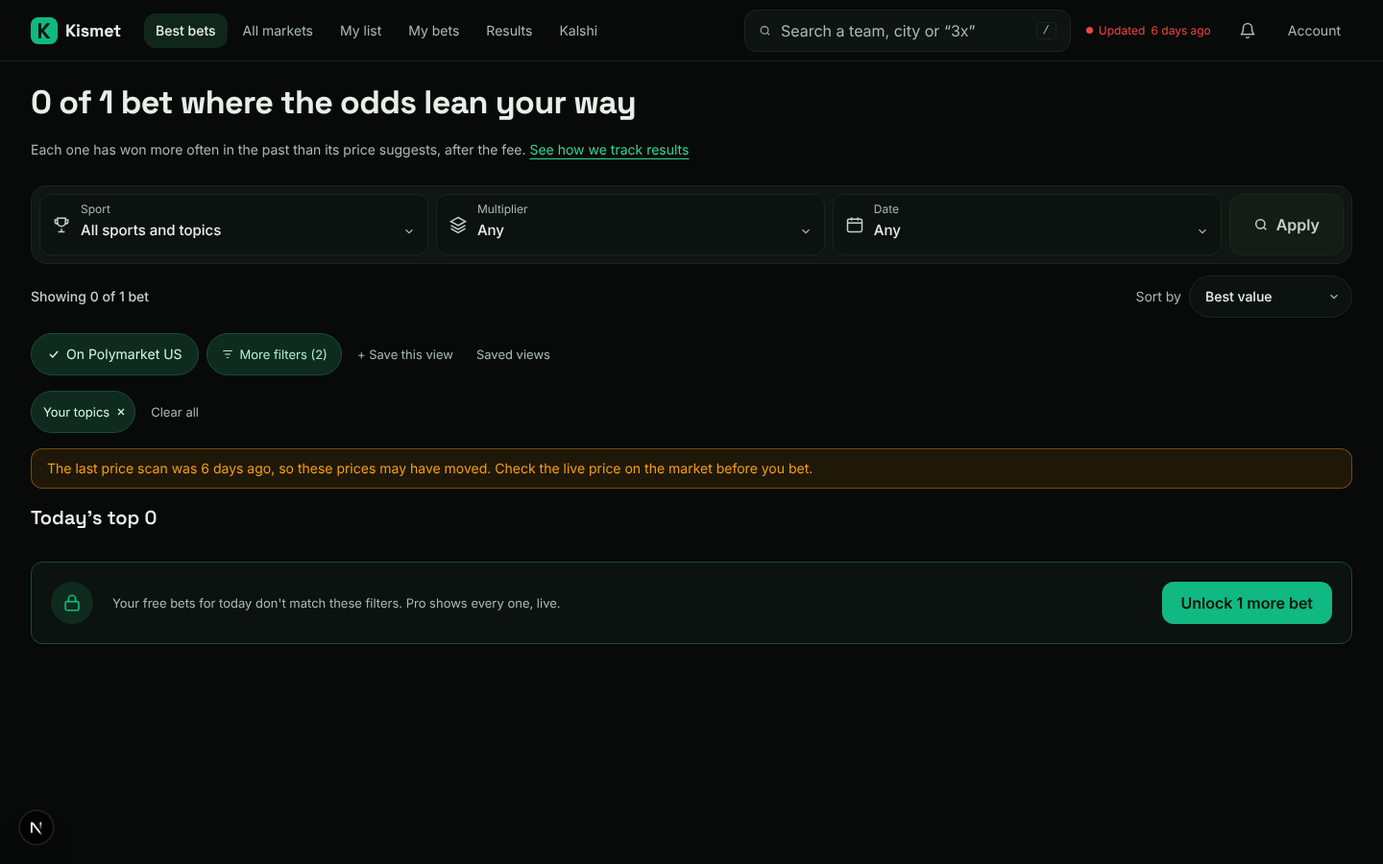
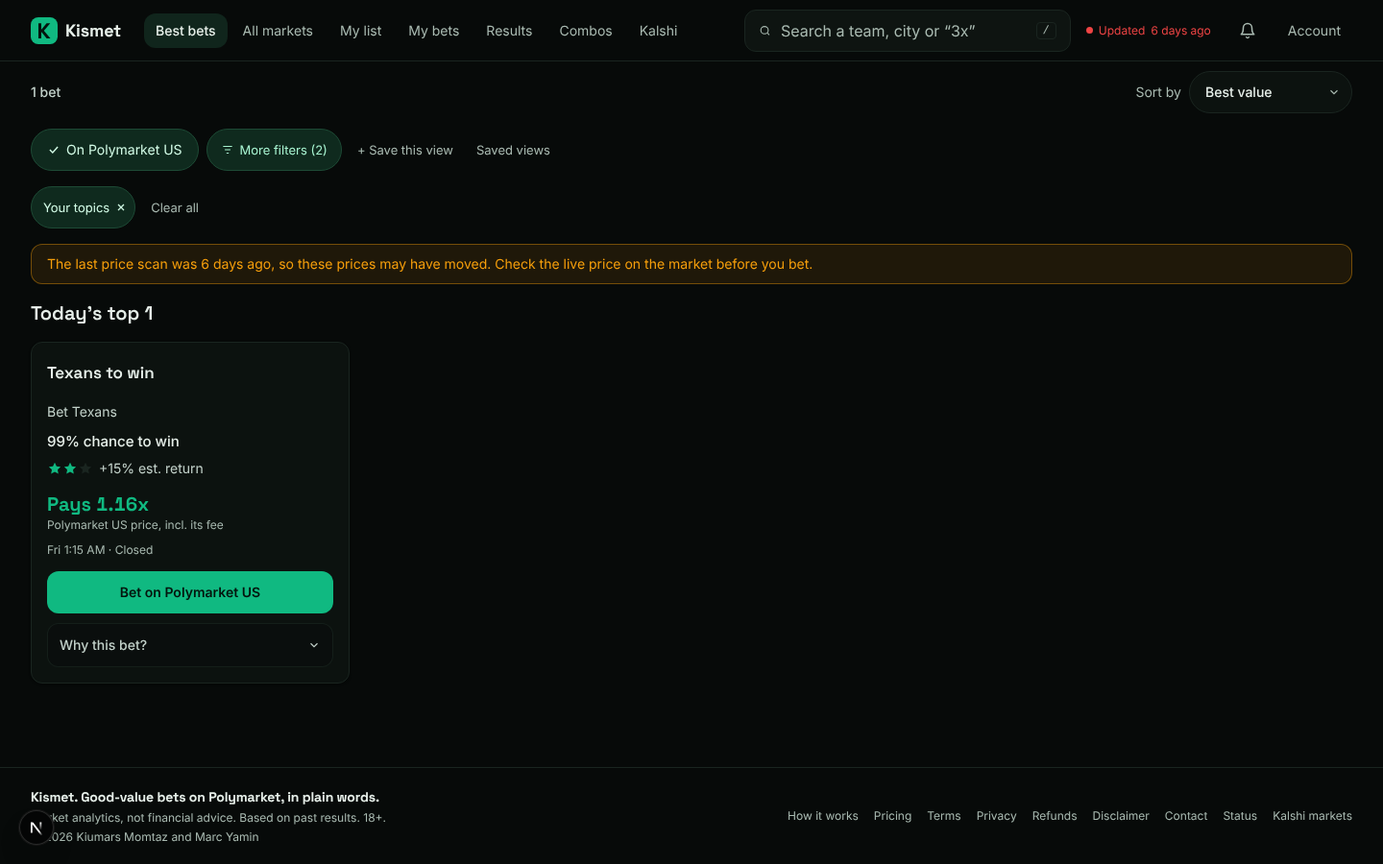
F5: real 307 from middleware, landing CLS under 0.1, portable e2e paths
- Middleware sends a bare /bets (or signed-in /) to /bets?fav=1&t=<ids> with a 307, decided from a server-set me_topics
  cookie (no database call). The page-level redirect() (200 + meta refresh) is gone.
- The cookie is written when the profile is saved and on the first /api/me of a device.
- firstPage resolves fav=1 without t= from the cookie; onboarding lands on ?view=flags&fav=1&t=<ids> with a full page load.
- Tour moves with transform, not top/left (its animation counted as layout shift).
- e2e: single-document check (307, then 200 with pill and cards), CLS of the exact post-onboarding landing at 390 and
  1440 px (0.051 and 0.017), repo-relative screenshot path, Premium comp so the filtered list is deterministic.

Claude-Session: https://claude.ai/code/session_01Xq7uwd4fAao58TRNq55oo4

diff --git a/apps/web/e2e-paid/launch-f05-topics.spec.ts b/apps/web/e2e-paid/launch-f05-topics.spec.ts
@@ -1,5 +1,6 @@
 // F5: pick topics at signup. New account picks NFL + Politics -> / and /bets open filtered with a visible "Your topics"
 // pill that clears in one tap (and stays cleared). Skipping setup leaves the views unfiltered. Filters only, never picks.
+import path from "node:path";
 import { expect, test, type Page } from "@playwright/test";
 
 async function signUp(page: Page, email: string) {
@@ -17,47 +18,83 @@ async function signUp(page: Page, email: string) {
   await page.waitForURL(/\/onboarding/, { timeout: 60_000 });
 }
 
+/** Free's Best bets are a random daily sample, so a topic filter can leave it empty. These tests are about the filter and
+ *  the layout, so the new account gets a Premium comp through the mock database (service role): every matching bet lists. */
+async function makePremium(page: Page) {
+  const me = await (await page.request.get("/api/me")).json();
+  const res = await page.request.patch(`/e2e-mock/supabase/rest/v1/subscriptions?user_id=eq.${me.user.id}`, {
+    headers: { authorization: "Bearer e2e-service", apikey: "e2e-service", "content-type": "application/json" }, data: { comp_tier: "premium" },
+  });
+  expect(res.status()).toBeLessThan(300);
+  expect((await (await page.request.get("/api/me")).json()).tier).toBe("premium");
+}
+
 const pill = (page: Page) => page.getByRole("button", { name: "Remove filter: Your topics" });
 
-const SHOTS = "/home/user/MarketEdge/.claude/worktrees/agent-afda8a27944e228d2/docs/launch/review/f05";
+const SHOTS = path.resolve(process.cwd(), "../../docs/launch/review/f05");   // repo-relative: <repo>/docs/launch/review/f05
 const SIZES = [{ w: 390, h: 844 }, { w: 1440, h: 900 }];
 
-/** Layout shift of the next full load of `path`, from buffered layout-shift entries (input-driven shifts excluded). */
-async function cls(page: Page, path: string) {
+/** Sum of layout-shift entries (input-driven shifts excluded) since the last resetCls(); survives client navigation. */
+async function observeCls(page: Page) {
   await page.addInitScript(() => {
     (window as unknown as { __cls: number }).__cls = 0;
     new PerformanceObserver((l) => { for (const e of l.getEntries() as unknown as { value: number; hadRecentInput: boolean }[]) if (!e.hadRecentInput) (window as unknown as { __cls: number }).__cls += e.value; })
       .observe({ type: "layout-shift", buffered: true });
   });
-  await page.goto(path);
-  await expect(pill(page)).toBeVisible({ timeout: 30_000 });
-  await page.waitForLoadState("networkidle");
-  await page.waitForTimeout(1_500);
-  return page.evaluate(() => (window as unknown as { __cls: number }).__cls);
 }
+const resetCls = (page: Page) => page.evaluate(() => { (window as unknown as { __cls: number }).__cls = 0; });
+const readCls = async (page: Page) => { await page.waitForLoadState("networkidle"); await page.waitForTimeout(1_500); return page.evaluate(() => (window as unknown as { __cls: number }).__cls); };
+
+// next dev compiles a route on its first hit (seconds of unstyled, shifting layout). This throwaway user hits the routes
+// the measured tests land on, so those measure the page, not the compiler.
+test("warm-up: first hits compile the routes", async ({ page }) => {
+  test.setTimeout(300_000);
+  await signUp(page, `f05-warm-${Date.now()}@example.com`);
+  await page.getByRole("button", { name: "Skip setup" }).click();
+  await page.waitForURL((u) => u.pathname === "/" || u.pathname === "/bets", { timeout: 120_000 });
+  for (const u of ["/bets", "/bets?fav=1&t=sports.nfl", "/settings", "/account"]) { await page.goto(u); await page.waitForLoadState("networkidle"); }
+});
 
 for (const { w, h } of SIZES) {
   test(`picks NFL + Politics at ${w}px: / and /bets open filtered with a Your topics pill; one tap clears it`, async ({ page }) => {
     test.setTimeout(300_000);
     await page.setViewportSize({ width: w, height: h });
+    await observeCls(page);
     await signUp(page, `f05-pick-${w}-${Date.now()}@example.com`);
+    await makePremium(page);
     const nfl = page.getByRole("button", { name: /^NFL/ });
     const politics = page.getByRole("button", { name: /^Elections/ });   // Politics & Elections > Elections: the fixture's one open Politics market
+    await expect(nfl).toContainText("open", { timeout: 60_000 });   // the tile counts arrive after first paint and move the grid
+    await page.waitForTimeout(500);
     await nfl.click();   // each tap waits for the account store, then saves; the tile shows chosen once it has
     await expect(nfl).toHaveAttribute("aria-pressed", "true", { timeout: 30_000 });
     await politics.click();
     await expect(politics).toHaveAttribute("aria-pressed", "true", { timeout: 30_000 });
     await page.screenshot({ path: `${SHOTS}/${w}-1-pick-topics.png` });
+    await resetCls(page);   // measure the exact landing after onboarding
     await page.getByRole("button", { name: "Skip setup" }).click();   // finishing from any step saves; lands on Best bets
     await expect(page).toHaveURL(/fav=1/, { timeout: 60_000 });
     await expect(pill(page)).toBeVisible({ timeout: 30_000 });
+    expect(await page.locator("article[data-row]").count()).toBeGreaterThan(0);
+    const landing = await readCls(page);
+    console.log(`CLS post-onboarding landing at ${w}px: ${landing.toFixed(4)}  (${page.url()})`);
+    expect(landing).toBeLessThan(0.1);
     expect(await page.evaluate(() => document.documentElement.scrollWidth)).toBeLessThanOrEqual(w);   // no horizontal scroll
 
-    // a later visit to / and /bets: the server redirects before rendering, so the pill is in the first HTML
-    for (const path of ["/", "/bets"]) {
-      const res = await page.request.get(path, { maxRedirects: 0 });
-      expect([200, 307, 308]).toContain(res.status());
-      await page.goto(path);
+    // a later visit to / and /bets: a real 307 (no page body), then ONE document that already holds the pill and the cards
+    for (const route of ["/", "/bets"]) {
+      const hop = await page.request.get(route, { maxRedirects: 0 });
+      expect(hop.status(), route).toBe(307);
+      expect(hop.headers().location, route).toMatch(/\/bets\?fav=1&t=/);
+      expect((await hop.text()).length, "the 307 carries no page").toBeLessThan(2_000);
+      const doc = await page.request.get(route);   // follows the redirect
+      expect(doc.status()).toBe(200);
+      expect(doc.url()).toMatch(/fav=1&t=/);
+      const html = await doc.text();
+      expect(html).not.toContain("NEXT_REDIRECT");
+      expect(html).toContain("Remove filter: Your topics");
+      expect(html).toMatch(/<article[^>]*data-row/);
+      await page.goto(route);
       await expect(page).toHaveURL(/fav=1/);
       await expect(pill(page)).toBeVisible({ timeout: 30_000 });
     }
@@ -66,7 +103,10 @@ for (const { w, h } of SIZES) {
     await page.screenshot({ path: `${SHOTS}/${w}-2-bets-filtered.png` });
 
     // CLS of a fresh /bets load with topics saved (spec: < 0.1)
-    const shift = await cls(page, "/bets");
+    await resetCls(page);
+    await page.goto("/bets");
+    await expect(pill(page)).toBeVisible({ timeout: 30_000 });
+    const shift = await readCls(page);
     console.log(`CLS /bets with topics saved at ${w}px: ${shift.toFixed(4)}`);
     expect(shift).toBeLessThan(0.1);
     await page.waitForLoadState("networkidle");

diff --git a/apps/web/lib/filters/default-topics.ts b/apps/web/lib/filters/default-topics.ts
@@ -1,14 +1,30 @@
 // F5: Home / Best bets open filtered to the topics the user chose, unless the URL already carries filters or the
 // user cleared the "Your topics" pill. A filter only, never a pick: the same flags come back for anyone with it.
-export const TOPICS_OFF_KEY = "me:v1:topics_off";
-const DRAWER = new Set(["m", "side"]);
+//
+// Middleware can't query the database per request, so the choice rides in a small cookie the server writes whenever
+// it learns the profile (profile save, /api/me): "on:<ids>" or "off:<ids>" (pill cleared). Middleware turns a bare
+// /bets (or signed-in /) into a real 307 to /bets?fav=1&t=<ids>; the page then renders the filtered cards and the pill
+// in its first HTML.
+export const TOPICS_COOKIE = "me_topics";
+export const TOPICS_COOKIE_MAX_AGE = 60 * 60 * 24 * 365;
+const DRAWER = new Set(["m", "side", "_rsc"]);   // params that don't filter (the drawer; Next's soft-navigation marker)
+const ID = /^[a-z0-9][a-z0-9._-]{0,59}$/;
 
-/** The query to replace the URL with, or null to leave it. `search` is location.search (with or without "?"). */
+export const topicsCookieValue = (favorites: string[], off: boolean) => `${off ? "off" : "on"}:${favorites.join(",")}`;
+
+export function parseTopicsCookie(v: string | undefined | null): { favorites: string[]; dismissed: boolean } {
+  const m = /^(on|off):(.*)$/.exec(v ?? "");
+  if (!m) return { favorites: [], dismissed: false };
+  return { favorites: m[2]!.split(",").filter((id) => ID.test(id)).slice(0, 100), dismissed: m[1] === "off" };
+}
+
+/** The query to send the visitor to, or null to leave the URL alone. `search` is the request's query string. */
 export function defaultTopicsHref(search: string, favorites: string[], dismissed: boolean): string | null {
   if (dismissed || !favorites.length) return null;
   const p = new URLSearchParams(search);
   for (const k of p.keys()) if (!DRAWER.has(k)) return null;
-  // fav=1 is the "Your topics" pill; t=<ids> carries the same topics so the server renders the filtered list (no refetch after the profile loads)
+  p.delete("_rsc");
+  // fav=1 is the "Your topics" pill; t=<ids> carries the same topics so the server renders the filtered list
   const out = new URLSearchParams({ fav: "1", t: favorites.join(",") });
   p.forEach((v, k) => out.set(k, v));
   return `?${out.toString()}`;

diff --git a/apps/web/lib/filters/default-topics.test.ts b/apps/web/lib/filters/default-topics.test.ts
@@ -1,9 +1,10 @@
 import { describe, expect, it } from "vitest";
-import { defaultTopicsHref } from "./default-topics";
+import { defaultTopicsHref, parseTopicsCookie, topicsCookieValue } from "./default-topics";
 
 describe("defaultTopicsHref", () => {
   it("opens with the user's topics when the URL has no filters", () => {
     expect(defaultTopicsHref("", ["sports.nfl"], false)).toBe("?fav=1&t=sports.nfl");
+    expect(defaultTopicsHref("", ["sports.nfl", "politics.elections"], false)).toBe("?fav=1&t=sports.nfl%2Cpolitics.elections");
   });
   it("does nothing without topics (skipped setup)", () => {
     expect(defaultTopicsHref("", [], false)).toBeNull();
@@ -11,9 +12,22 @@ describe("defaultTopicsHref", () => {
   it("does nothing after the user cleared the pill", () => {
     expect(defaultTopicsHref("", ["sports.nfl"], true)).toBeNull();
   });
-  it("leaves an explicit filter or a drawer-only URL alone", () => {
+  it("leaves an explicit filter alone; a drawer-only or soft-navigation URL still opens filtered", () => {
     expect(defaultTopicsHref("?topics=weather", ["sports.nfl"], false)).toBeNull();
-    expect(defaultTopicsHref("?view=flags&topics=weather", ["sports.nfl"], false)).toBeNull();
+    expect(defaultTopicsHref("?view=flags&t=weather", ["sports.nfl"], false)).toBeNull();
     expect(defaultTopicsHref("?m=abc&side=0", ["sports.nfl"], false)).toBe("?fav=1&t=sports.nfl&m=abc&side=0");
+    expect(defaultTopicsHref("?_rsc=1x2y3", ["sports.nfl"], false)).toBe("?fav=1&t=sports.nfl");
+  });
+});
+
+describe("topics cookie", () => {
+  it("round-trips topics and the cleared flag", () => {
+    expect(parseTopicsCookie(topicsCookieValue(["sports.nfl", "weather"], false))).toEqual({ favorites: ["sports.nfl", "weather"], dismissed: false });
+    expect(parseTopicsCookie(topicsCookieValue(["sports.nfl"], true))).toEqual({ favorites: ["sports.nfl"], dismissed: true });
+    expect(parseTopicsCookie(topicsCookieValue([], false))).toEqual({ favorites: [], dismissed: false });
+  });
+  it("ignores a missing, malformed or tampered value", () => {
+    for (const v of [undefined, null, "", "garbage", "on"]) expect(parseTopicsCookie(v)).toEqual({ favorites: [], dismissed: false });
+    expect(parseTopicsCookie("on:sports.nfl,<script>,../x,weather").favorites).toEqual(["sports.nfl", "weather"]);
   });
 });

diff --git a/apps/web/components/onboarding/Tour.tsx b/apps/web/components/onboarding/Tour.tsx
@@ -113,12 +113,13 @@ export function Tour() {
       {/* the click shield; the spotlight's own shadow dims everything else */}
       <div className="absolute inset-0" onClick={end} aria-hidden="true" style={rect ? undefined : { background: "rgb(0 0 0 / 0.6)" }} />
       {rect && (
-        <div aria-hidden="true" className="pointer-events-none absolute rounded-card ring-2 ring-accent transition-all duration-300 ease-out motion-reduce:transition-none"
-          style={{ top: rect.top - pad, left: rect.left - pad, width: rect.width + pad * 2, height: rect.height + pad * 2, boxShadow: "0 0 0 9999px rgb(0 0 0 / 0.6)" }} />
+        <div aria-hidden="true" className="pointer-events-none absolute rounded-card ring-2 ring-accent transition-transform duration-300 ease-out motion-reduce:transition-none"
+          // moves with transform, not top/left: animating top/left counts as layout shift (CLS) on every frame
+          style={{ top: 0, left: 0, transform: `translate(${rect.left - pad}px, ${rect.top - pad}px)`, width: rect.width + pad * 2, height: rect.height + pad * 2, boxShadow: "0 0 0 9999px rgb(0 0 0 / 0.6)" }} />
       )}
       <div ref={card} role="dialog" aria-modal="true" aria-labelledby="tour-h" aria-describedby="tour-b"
-        className="absolute w-[min(360px,calc(100vw-32px))] rounded-card border border-border bg-surface p-5 shadow-[0_12px_32px_rgb(0_0_0/0.45)] transition-[top,left] duration-300 ease-out motion-reduce:transition-none"
-        style={pos ? { top: pos.top, left: pos.left } : { visibility: "hidden" }}>
+        className="absolute w-[min(360px,calc(100vw-32px))] rounded-card border border-border bg-surface p-5 shadow-[0_12px_32px_rgb(0_0_0/0.45)] transition-transform duration-300 ease-out motion-reduce:transition-none"
+        style={pos ? { top: 0, left: 0, transform: `translate(${pos.left}px, ${pos.top}px)` } : { visibility: "hidden" }}>
         <p className="text-xs tabular-nums text-muted">{step + 1} of {STEPS.length}</p>
         <h2 id="tour-h" className="mt-1 font-heading text-lg font-semibold">{s.title}</h2>
         <p id="tour-b" className="mt-1.5 text-sm leading-relaxed text-soft">{s.body}</p>

diff --git a/apps/web/lib/repo/server.ts b/apps/web/lib/repo/server.ts
@@ -1,7 +1,9 @@
 // /api/data/* handlers: the signed-in user's rows via Supabase with RLS (SupabaseRepo's backend).
 // Quotas per tier are enforced here, not only in the UI (docs/08 LIMITS).
 import type { SupabaseClient } from "@supabase/supabase-js";
-import { authEnabled, getTier, sameOrigin, supabaseServer } from "@/lib/auth/server";
+import { cookies } from "next/headers";
+import { COOKIE_OPTIONS, authEnabled, getTier, sameOrigin, supabaseServer } from "@/lib/auth/server";
+import { TOPICS_COOKIE, TOPICS_COOKIE_MAX_AGE, topicsCookieValue } from "@/lib/filters/default-topics";
 import { readJson } from "@/lib/body";
 import { isAppToken } from "@/lib/auth/app-token";
 import { can, quota, type QuotaKey } from "@/lib/entitlements";
@@ -102,7 +104,18 @@ export async function patchProfile({ db, userId }: Ctx, body: unknown): Promise<
   if (!parsed.success) return err(400, "Invalid settings");
   const { data, error } = await db.from("profiles").update(parsed.data).eq("user_id", userId).select("*").maybeSingle();
   if (error) return err(400, "Couldn't save");
+  await syncTopicsCookie(data);
   return Response.json(profileOut(data));
+}
+
+/** F5: remember the saved topics (and whether the "Your topics" pill was cleared) in a server-set cookie, so middleware
+ *  can send a bare /bets to the filtered view without a database call (lib/filters/default-topics.ts). */
+export async function syncTopicsCookie(row: Record<string, unknown> | null): Promise<void> {
+  if (!row) return;
+  try {
+    const fav = Array.isArray(row.favorite_topics) ? (row.favorite_topics as unknown[]).filter((x): x is string => typeof x === "string") : [];
+    (await cookies()).set(TOPICS_COOKIE, topicsCookieValue(fav, row.topics_off === true), { ...COOKIE_OPTIONS, maxAge: TOPICS_COOKIE_MAX_AGE });
+  } catch { /* not in a request context (tests): nothing to set */ }
 }
 
 /** First sign-in import of localStorage data (docs/08). Rows that clash or break a quota are skipped. */

diff --git a/apps/web/lib/data/respond.ts b/apps/web/lib/data/respond.ts
@@ -16,7 +16,8 @@ import { BEST_BETS_VERDICTS, CLOSING_SOON, tierOf, type FilterState } from "@/li
 import { DELAYED_PENDING, delayedPendingLine, type EventResponse, type MarketResponse, type MarketsResponse } from "@/lib/api";
 import type { LedgerStats, StoreMarket } from "@/lib/types";
 import { proofLine, type Proof } from "@/lib/proof";
-import { headers } from "next/headers";
+import { cookies, headers } from "next/headers";
+import { TOPICS_COOKIE, parseTopicsCookie } from "@/lib/filters/default-topics";
 
 /** RT-15: tier-shaped bodies must never sit in a shared cache. A route's own private Cache-Control is kept. */
 export function noStore(res: Response): Response {
@@ -277,7 +278,13 @@ export const listRoute = (req: Request, view?: "flags") =>
  *  "Closing soon" strip. undefined (the client fetches as before) for "Mine" filters, which resolve in the browser,
  *  or on any error. Free page loads count every row shown against the row budget, like the API. */
 export async function firstPage(params: URLSearchParams, view: "flags" | "markets"): Promise<{ main: MarketsResponse; soon?: MarketsResponse; scanned_at: number } | undefined> {
-  if (params.has("wl") || (params.has("fav") && !params.has("t"))) return undefined;   // F5: fav=1 with t=<ids> (the redirect) is rendered here
+  if (params.has("wl")) return undefined;
+  if (params.has("fav") && !params.has("t")) {   // F5: "Your topics" without ids (an old link, onboarding): resolve them here, like a bare /bets
+    const { favorites } = parseTopicsCookie((await cookies()).get(TOPICS_COOKIE)?.value);
+    if (!favorites.length) return undefined;
+    params = new URLSearchParams(params);
+    params.set("t", favorites.join(","));
+  }
   try {
     const ctx = await pageStore();
     const store = can(ctx.tier, "exact_edge") ? ctx.store : freeView(ctx.store);

diff --git a/apps/web/lib/activation.ts b/apps/web/lib/activation.ts
@@ -3,7 +3,6 @@ import "server-only";
 // Best effort and after the response: before the owner applies 20261119000500_first_bets_visit.sql the column is
 // missing, the update fails and nothing else changes. Service role, because the column is server-owned.
 import { after } from "next/server";
-import { defaultTopicsHref } from "@/lib/filters/default-topics";
 import { adminEnabled, supabaseAdmin } from "@/lib/auth/server";
 
 export function markFirstBetsVisit(userId: string, now = new Date()): void {
@@ -13,20 +12,6 @@ export function markFirstBetsVisit(userId: string, now = new Date()): void {
       await supabaseAdmin().from("profiles").update({ first_bets_at: now.toISOString() }).eq("user_id", userId).is("first_bets_at", null);
     } catch { /* counts only; never break the page */ }
   });
-}
-
-/** F5: the query Best bets should redirect to so it opens filtered to the user's topics ("?fav=1" shows the "Your topics"
- *  pill), decided on the server so the first HTML is already filtered and nothing jumps. null = leave the URL alone
- *  (no topics, pill cleared, filters in the URL, signed out, or a failed read). A filter only: never a pick. */
-export async function topicsRedirect(userId: string | null, search: string): Promise<string | null> {
-  if (!userId || !adminEnabled()) return null;
-  try {
-    const { data, error } = await supabaseAdmin().from("profiles").select("favorite_topics, topics_off").eq("user_id", userId).maybeSingle();
-    if (error || !data) return null;   // before 20261122000100_profile_topics_off.sql is applied the read fails: no redirect
-    return defaultTopicsHref(search, data.favorite_topics ?? [], !!data.topics_off);
-  } catch {
-    return null;
-  }
 }
 
 /** Nov 21: whether the "Choose your topics" nudge shows, decided on the server so it is in the first HTML. Drawn only

diff --git a/apps/web/app/api/me/route.ts b/apps/web/app/api/me/route.ts
@@ -1,6 +1,9 @@
 // Who am I + plan (docs/08 useEntitlements). Polled by the checkout success page, so never cached.
+import { cookies } from "next/headers";
 import { isAdminEmail } from "@/lib/admin/core";
-import { authEnabled, getMe } from "@/lib/auth/server";
+import { adminEnabled, authEnabled, getMe, supabaseAdmin } from "@/lib/auth/server";
+import { TOPICS_COOKIE } from "@/lib/filters/default-topics";
+import { syncTopicsCookie } from "@/lib/repo/server";
 import { billingMode } from "@/lib/billing/stripe";
 import { DEMO_MODE } from "@/lib/config";
 import { navFeatures } from "@/lib/beta";
@@ -10,6 +13,15 @@ export const dynamic = "force-dynamic";
 
 export async function GET() {
   const me = await getMe();
+  // F5: a device that hasn't heard the saved topics yet (new browser, cookie cleared) learns them here, once
+  if (me.user && adminEnabled() && !(await cookies()).get(TOPICS_COOKIE)) {
+    try {
+      const full = await supabaseAdmin().from("profiles").select("favorite_topics, topics_off").eq("user_id", me.user.id).maybeSingle();
+      // before the topics_off migration the column is missing: fall back to the topics alone
+      const row = full.error ? (await supabaseAdmin().from("profiles").select("favorite_topics").eq("user_id", me.user.id).maybeSingle()).data : full.data;
+      await syncTopicsCookie(row);
+    } catch { /* best effort */ }
+  }
   return Response.json(
     // admin: decided here on the server from ADMIN_EMAILS; only shows or hides the header link (/admin checks again)
     { ...me, demo: DEMO_MODE, auth: authEnabled(), billing: billingMode() !== null, admin: isAdminEmail(me.user, process.env.ADMIN_EMAILS, DEMO_MODE), nav: navFeatures(me) },

diff --git a/apps/web/app/bets/page.tsx b/apps/web/app/bets/page.tsx
@@ -2,8 +2,7 @@ import { OnboardingNudge } from "@/components/onboarding/OnboardingNudge";
 import { BestBets } from "@/components/screener/BestBets";
 import { firstPage } from "@/lib/data/respond";
 import { authEnabled, getUser } from "@/lib/auth/server";
-import { redirect } from "next/navigation";
-import { markFirstBetsVisit, nudgeOnServer, topicsRedirect } from "@/lib/activation";
+import { markFirstBetsVisit, nudgeOnServer } from "@/lib/activation";
 
 export const metadata = { title: { absolute: "Best bets · Kismet" }, description: "Bets that have won more often in the past than their price suggests, after the fee." };
 
@@ -12,10 +11,7 @@ type Search = Record<string, string | string[] | undefined>;
 export default async function Page({ searchParams }: { searchParams: Promise<Search> }) {
   const sp = await searchParams;
   const params = new URLSearchParams(Object.entries(sp).flatMap(([k, v]) => (v === undefined ? [] : [[k, Array.isArray(v) ? v[0]! : v]])));
-  const user = await getUser();
-  const to = await topicsRedirect(user?.id ?? null, params.toString());
-  if (to) redirect(`/bets${to}`);   // F5: open on the user's topics; decided here so the first HTML already has them
-  const initial = await firstPage(params, "flags");   // P6: page 1 + Closing soon ship with the HTML
+  const [initial, user] = await Promise.all([firstPage(params, "flags"), getUser()]);   // P6: page 1 + Closing soon ship with the HTML   // P6: page 1 + Closing soon ship with the HTML
   if (user) markFirstBetsVisit(user.id);   // T-276: admin activation count (first visit only)
   const nudge = await nudgeOnServer(user?.id ?? null, !authEnabled());
   return (

diff --git a/apps/web/middleware.ts b/apps/web/middleware.ts
@@ -6,6 +6,7 @@ import { NextResponse, type NextRequest } from "next/server";
 import { isAdminEmail, mfaRequired } from "@/lib/admin/core";
 import { maintenanceOn } from "@/lib/maintenance";
 import { agentAllowed } from "@/lib/bots";
+import { TOPICS_COOKIE, defaultTopicsHref, parseTopicsCookie } from "@/lib/filters/default-topics";
 import { isAppToken } from "@/lib/auth/app-token";
 import { DEMO_MODE } from "@/lib/config";
 import { signedOutAccess } from "@/lib/auth/public-paths";
@@ -130,6 +131,20 @@ export async function middleware(req: NextRequest) {
     if (wall) {
       for (const c of res.cookies.getAll()) wall.cookies.set(c);   // keep any cookie the refresh just cleared
       return wall;
+    }
+  }
+  // F5: a bare Best bets (or signed-in Home) opens on the user's topics: a real 307, decided from the me_topics cookie
+  // (no database call here). The page then renders the filtered cards and the "Your topics" pill in its first HTML.
+  if (data.user && req.method === "GET" && (path === "/bets" || path === "/")) {
+    const { favorites, dismissed } = parseTopicsCookie(req.cookies.get(TOPICS_COOKIE)?.value);
+    const q = defaultTopicsHref(req.nextUrl.search, favorites, dismissed);
+    if (q) {
+      const to = req.nextUrl.clone();
+      to.pathname = "/bets";
+      to.search = q;
+      const r = NextResponse.redirect(to, 307);
+      for (const c of res.cookies.getAll()) r.cookies.set(c);
+      return r;
     }
   }
   return page(!!data.user, res, true);

diff --git a/apps/web/components/onboarding/Onboarding.tsx b/apps/web/components/onboarding/Onboarding.tsx
@@ -69,7 +69,10 @@ export function Onboarding({ next }: { next?: string }) {
       console.error("[onboarding] could not save:", e);
       setError("Couldn't save your setup. You can change it any time in Settings.");
     }
-    const to = next && next !== "/" ? next : `/${toQuery(FilterState.parse({ view: "flags", favorites_only: topics ? true : undefined }))}`;
+    const to = next && next !== "/" ? next : `/${toQuery(FilterState.parse({ view: "flags", favorites_only: topics ? true : undefined, topics }))}`;
+    // F5: to land on the filtered Best bets, load the page fresh. A client navigation shows the route's loading
+    // skeleton first and then swaps in the cards (layout shift); a full load arrives with the cards and the pill.
+    if (topics && !(next && next !== "/")) { location.assign(to); return; }
     router.push(to);
     // A client navigation can stall (e.g. a route still compiling); fall back to a full page load.
     setTimeout(() => { if (location.pathname === "/onboarding") location.assign(to); }, 10_000);
